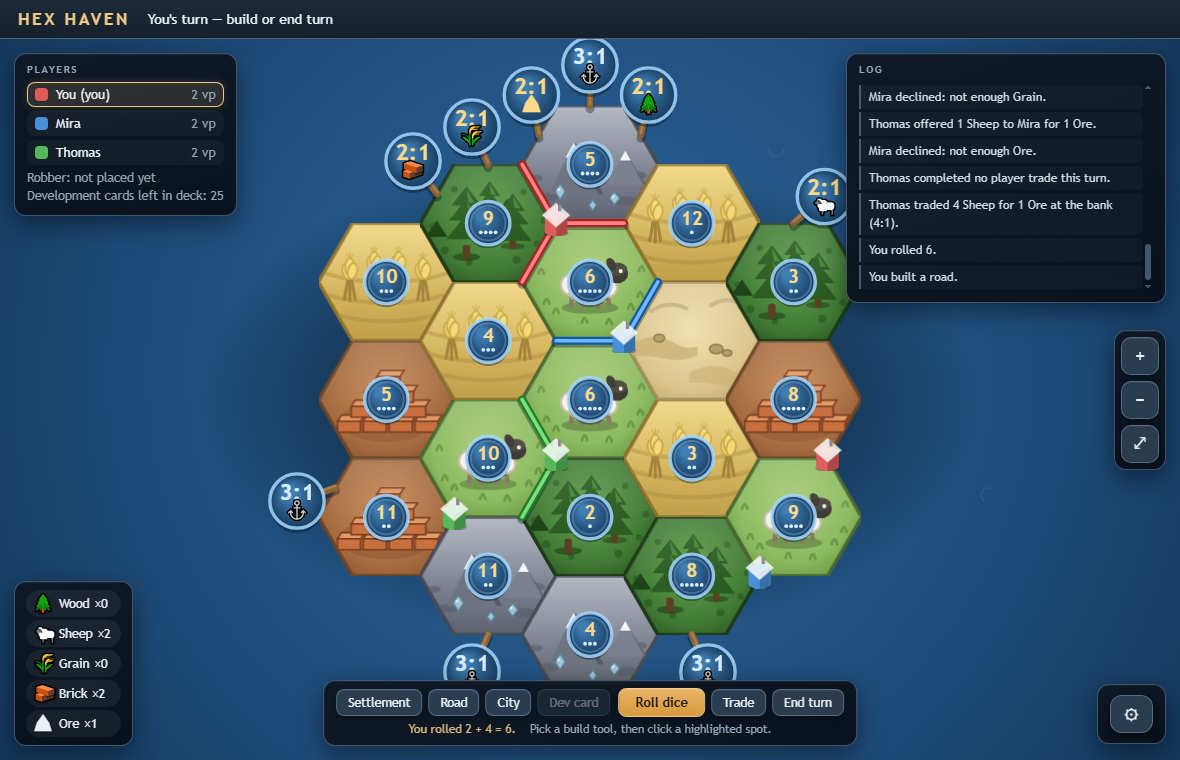
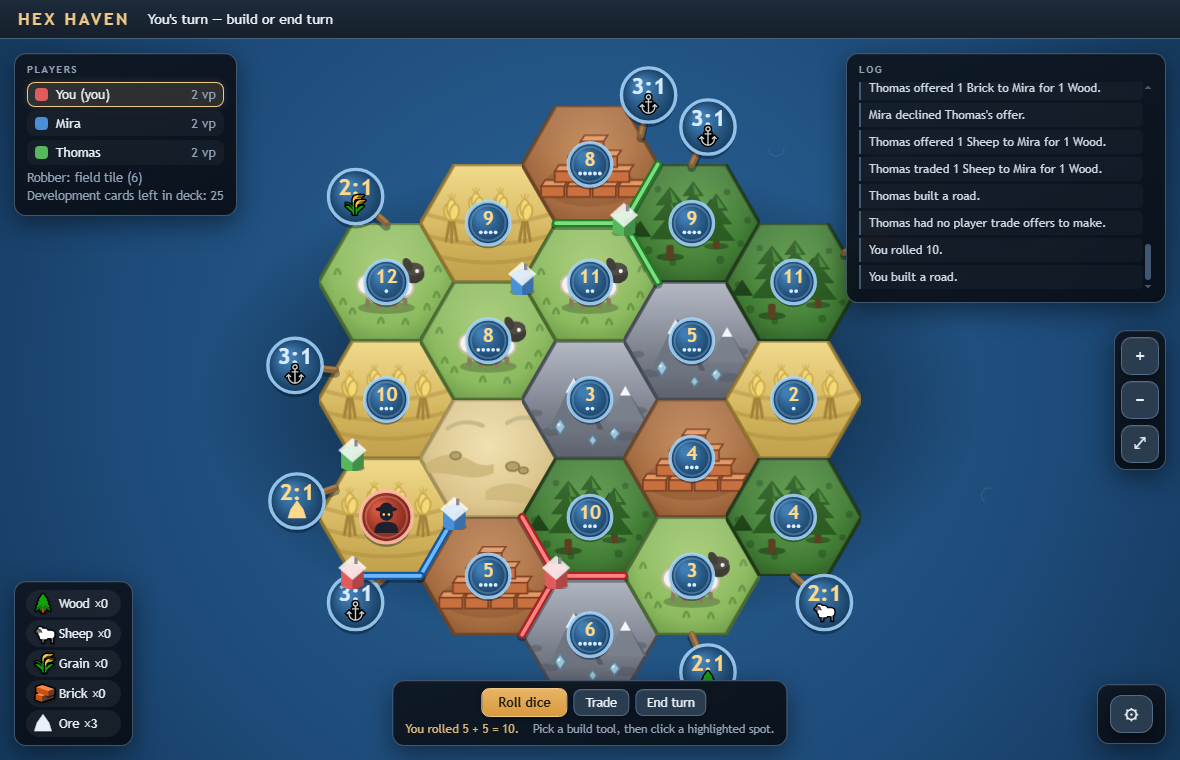
HUD: hide build tools the player cannot pay for (setup and free-road credits stay free)

diff --git a/js/main.js b/js/main.js
@@ -272,6 +272,10 @@
     }
     const buy = $('btn-dev');
     if (buy) {
+      // Same rule as the build pieces: hide the purchase it can't pay for.
+      const cantPay = !busy && g.current === 0 && g.phase === 'build' &&
+        g.deck.length > 0 && !RULES.canAfford(p, 'devCard');
+      buy.classList.toggle('hidden', cantPay);
       buy.disabled = g.current !== 0 || busy || g.phase !== 'build' ||
         g.deck.length === 0 || !RULES.canAfford(p, 'devCard');
     }
@@ -969,10 +973,26 @@
   });
 
   function syncBuildBar() {
+    const p = g.players[0];
+    const buildable = !busy && g.current === 0 && (isSetup() || g.phase === 'build');
     for (const b of document.querySelectorAll('[data-build]')) {
-      b.classList.toggle('active', b.dataset.build === tool);
+      const kind = b.dataset.build;
+      b.classList.toggle('active', kind === tool);
+      // Hide the pieces the player cannot pay for: setup placement and
+      // Road Building credits are free, everything else needs the cost
+      // (RULES.COST via canAfford). Disabled-but-visible on other turns
+      // so the bar doesn't flicker while the AIs play.
+      let freeNow = false;
+      if (kind === 'settlement') freeNow = g.phase === 'setup1';
+      else if (kind === 'road') {
+        freeNow = g.phase === 'setup2' || (p && p.freeRoads > 0);
+      }
+      const cantPay = buildable && !freeNow && !RULES.canAfford(p, kind);
+      b.classList.toggle('hidden', cantPay);
       b.disabled = g.current !== 0 || busy ||
         !(isSetup() || g.phase === 'build');
+      // An active tool must not keep board highlights when it's unpayable.
+      if (cantPay && kind === tool) tool = null;
     }
     const tradeBtn = $('btn-trade');
     if (tradeBtn) {
